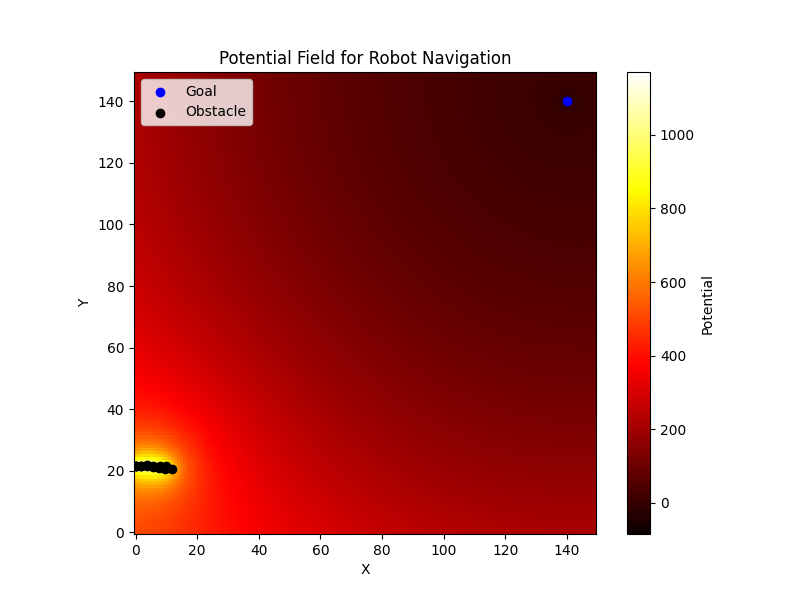
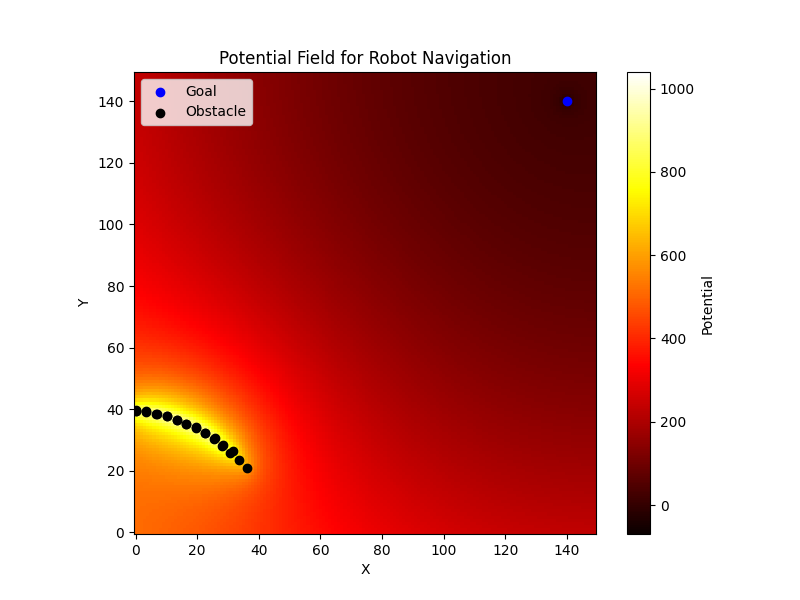
Movement logic. It moves as long as there is no obstacles in the way

diff --git a/Project03.py b/Project03.py
@@ -1,10 +1,7 @@
 from HeatMapCode import generate_heatmap
 from Motor import *
 import math
-### MAY BE ADD THIS OPTIMIZATION LATER! ####
-#robot_pos = (0, 0) # Robot starting position
-#robot_heading = 0 # degrees
-############################################
+
 
 # Function to change the coordinates from robot frame to lab frame
 def robot_to_lab(point, angle):
@@ -17,29 +14,69 @@ def robot_to_lab(point, angle):
 
     return (x2, y2)
 
-# Function to move the robot forward
-def move_forward(distance, robot_curr_angle, robot_heading):
-    #TODO:MAKE SURE THE ANGLE IS IN RADIANS WHEN YOU ARE TESTING!
-    # Rotate to the appropriate angle
-    smart_turn(robot_curr_angle, robot_heading)
-    # moving forward
-    motor(distance)
+# Function to update the robot internal state after moving forward
+def update_robot_state():
+    theta = math.radians(robot_heading)
+    dx = distance * math.cos(theta)
+    dy = distance * math.sin(theta)
+
+    x, y = robot_pos
+    robot_pos = (x + dx, y + dy)
+
+    robot_curr_angle = robot_heading
+
+# Function to find the gradient
+def gradient(K, C, D, robot_pos, goal, obstacles):
+    x, y = robot_pos
+    x_goal, y_goal = goal
+    total = 0
+
+    attract = (x - x_goal)**2 + (y - y_goal)**2
+
+    if attract != 0:
+        attraction = attract
+    else:
+        # Can't divide by zero
+        attraction = 1e-6
+
+    for x_i, y_i in obstacles:
+        dist_squared = (x - x_i)**2 + (y - y_i)**2
+
+        if dist_squared != 0:
+            total += 1 / dist_squared
+        else: 
+            # You're right on the obstacle - spike potential high
+            total += 1e6
+
+    gradient = (K * attraction) - (C / attraction) + (D * total)
+
+    return gradient
 
 
 def navigation():
-    # Step 1: Have the robot pointing in the postive x-axis 
-    # in the lab frame so that the robot frame is the same.
-    # Then the robot will scan in its range for objects.
-    obstacles_data = generate_heatmap()
+    goal = (140, 140)
+    robot_pos = (0, 0) # Robot starting position
+    robot_heading = 0 # degrees
+    robot_curr_angle = 90
+    while robot_pos != goal:
+        print(f"Robot_pos: {robot_pos}")
+        print(f"Robot_curr_angle: {robot_curr_angle}")
+        print(f"Robot_heading: {robot_heading}")
+        obstacles_data = generate_heatmap()
+        print(f"obstacles_data: {obstacles_data}")
 
-    # If you did not find any obstacles move forward freely
-    if not obstacles_data:
-        print("Moving.....")
-        #setup()
-        #motor(50)
-        #destroy()
-    else:
-        obstacles_lab_coordinates = [robot_to_lab(data) for data in obstacles_data]
-        print(f"Obstacles_lab_coordinates: {obstacles_lab_coordinates}")
+        # If you did not find any obstacles move forward freely
+        if not obstacles_data:
+            print("Moving.....")
+            setup()
+            motor(45)
+            #update_robot_state()
+            destroy()
+        else:
+            obstacles_lab_coordinates = [robot_to_lab(point=data[0], angle=data[1]) for data in obstacles_data]
+            print(f"Obstacles_lab_coordinates: {obstacles_lab_coordinates}")
+            gradient_num = gradient(K=1, C=1, D=1, robot_pos=robot_pos, goal=goal, obstacles=obstacles_lab_coordinates)
+            print(f"gradient: {gradient_num}")
+            #smart_turn(current_angle=math.radians(robot_curr_angle), target_angle=math.radians(robot_heading))
     
 

diff --git a/Scanning.py b/Scanning.py
@@ -48,6 +48,10 @@ def real_data(scan_data):
 
     return real_data
 
+def destroy_scan():
+    servo0.angle = None
+    pca.deinit()
+    sensor.close()
 
 def scan():
     scan_data = [] # Store scanned points
@@ -57,34 +61,24 @@ def scan():
     clockwise_angles = [i for i in range(start_angle, -1, -5)]
     first_pass = True
 
-    try:
-        while first_pass:
-            # Start at current position
-            servo0.angle = start_angle
-            distance = get_distance(10)
-            if distance < 50: #Range limit
-                scan_data.append((start_angle, distance))
-            print(f"{start_angle} degrees: {distance:.2f} cm")
-            #sleep(0.05) # Small delay for stability
+    while first_pass:
+        # Start at current position
+        servo0.angle = start_angle
+        distance = get_distance(10)
+        if distance < 50: #Range limit
+            scan_data.append((start_angle, distance))
+        print(f"{start_angle} degrees: {distance:.2f} cm")
+        #sleep(0.05) # Small delay for stability
 
-            for angle_list in [anticlockwise_angles, reversed(anticlockwise_angles[:-1]), clockwise_angles, reversed(clockwise_angles[:-1])]:
-                for angle in angle_list:
-                    servo0.angle = angle
-                    distance = get_distance(10)
-                    if distance < 50: # Range limit
-                        scan_data.append((angle, distance))
-                    print(f"{angle} degrees: {distance:.2f} cm")
-                    #sleep(0.05) # Small delay for stability
+        for angle_list in [anticlockwise_angles, reversed(anticlockwise_angles[:-1]), clockwise_angles, reversed(clockwise_angles[:-1])]:
+            for angle in angle_list:
+                servo0.angle = angle
+                distance = get_distance(10)
+                if distance < 50: # Range limit
+                    scan_data.append((angle, distance))
+                print(f"{angle} degrees: {distance:.2f} cm")
+                #sleep(0.05) # Small delay for stability
 
-            first_pass = False
-            filtered_real_data = real_data(scan_data)
-            return filtered_real_data
-            
-    except KeyboardInterrupt:  # Press ctrl-c to end the program
-        print("Ending program")
-        servo0.angle = None
-        pca.deinit()
-        sensor.close()
+        first_pass = False
         filtered_real_data = real_data(scan_data)
         return filtered_real_data
-        

diff --git a/Main.py b/Main.py
@@ -1,8 +1,14 @@
 from Project03 import navigation
+from Scanning import destroy_scan
+from Motor import destroy
 #from HeatMapCode import generate_heatmap
 
 if __name__ == "__main__":
     print("Program is starting...")
-    navigation()
-    #generate_heatmap()
-    
+    try:
+        navigation()
+        #generate_heatmap()
+    except KeyboardInterrupt:
+        print("Stopping Program!")
+        destroy_scan()
+        destroy()
